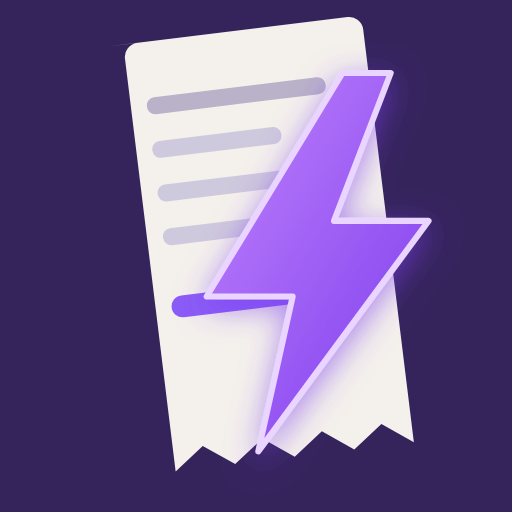
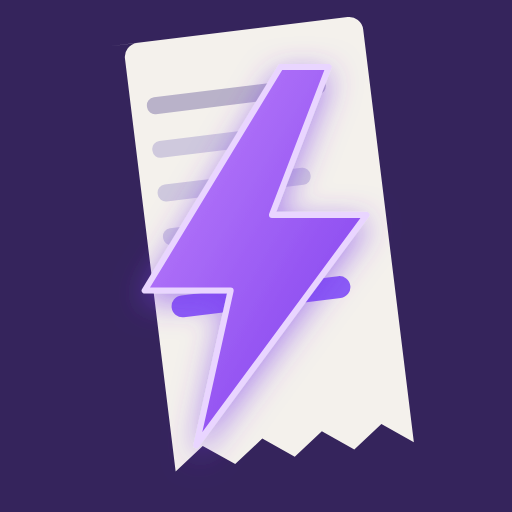
アイコンの稲妻を中央配置に調整
Claude-Session: https://claude.ai/code/session_01M7TmCoUV6As5ur3WRm9Z6P

Changed region(s): [[0.2812, 0.125, 0.8438, 0.9062]]

diff --git a/docs/index.html b/docs/index.html
@@ -592,7 +592,7 @@ const DRAFT_IMAGE_ID = "__draft__";
 const CROP_DRAFT_IMAGE_ID = "__crop_draft__"; // トリミング前の選択写真（リロード復元用）
 const DEFAULT_MODEL = "gpt-5.4";
 // UIに関わる変更をpushするたびに更新する（設定タブに表示。キャッシュで旧版が出ていないかの確認用）
-const APP_VERSION = "2026-07-08.17 ロゴに稲妻バッジ";
+const APP_VERSION = "2026-07-08.18 アイコンの稲妻を中央に";
 
 // OCRプロンプト: ExpenseVBA(modReceiptOCR.bas)と同一文言。抽出品質を揃えるため変更時は両方を同期すること
 const PROMPT = [